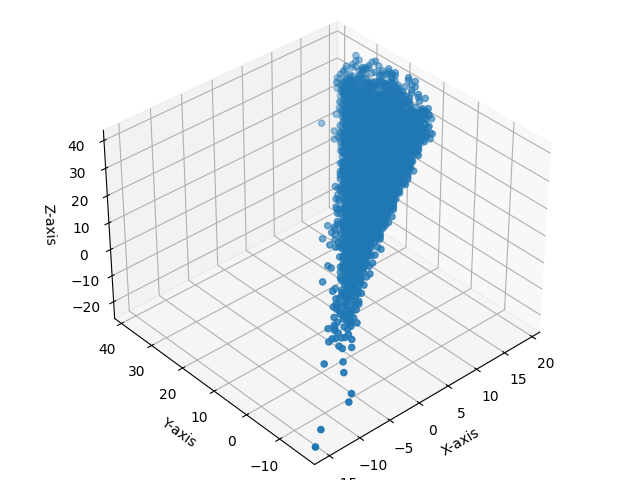
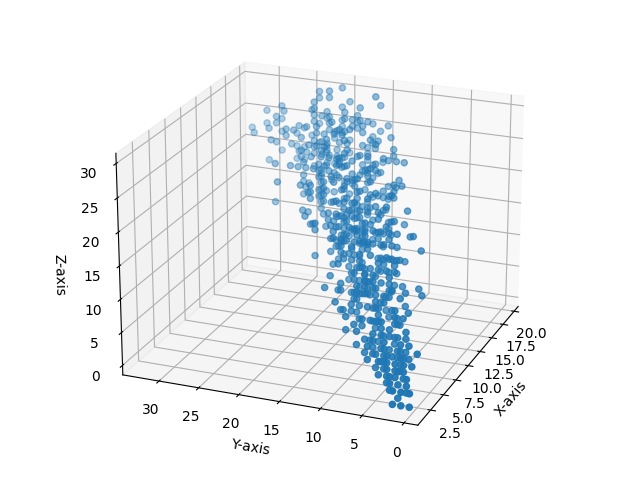
Images for k=7, 8 (note that I limited x to only go up to 20)

diff --git a/MutationCollection.py b/MutationCollection.py
@@ -82,7 +82,7 @@ def plot(cluster, array, k):
 
 
 # Make Plot (set k to desired distance)
-k = 6
+k = 8
 p = plot(C, A, k)
 ax_1.scatter(p[0], p[1], p[2])
 pyplot.show()
